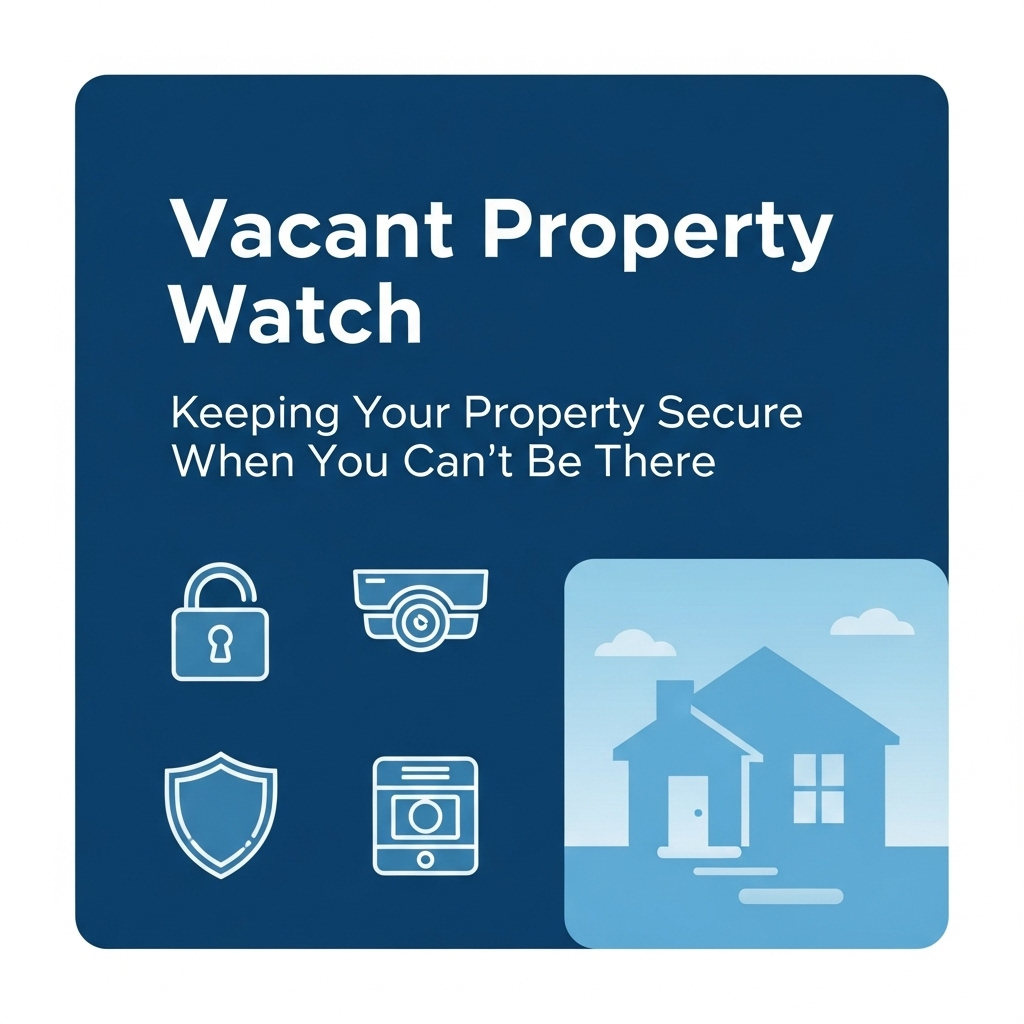
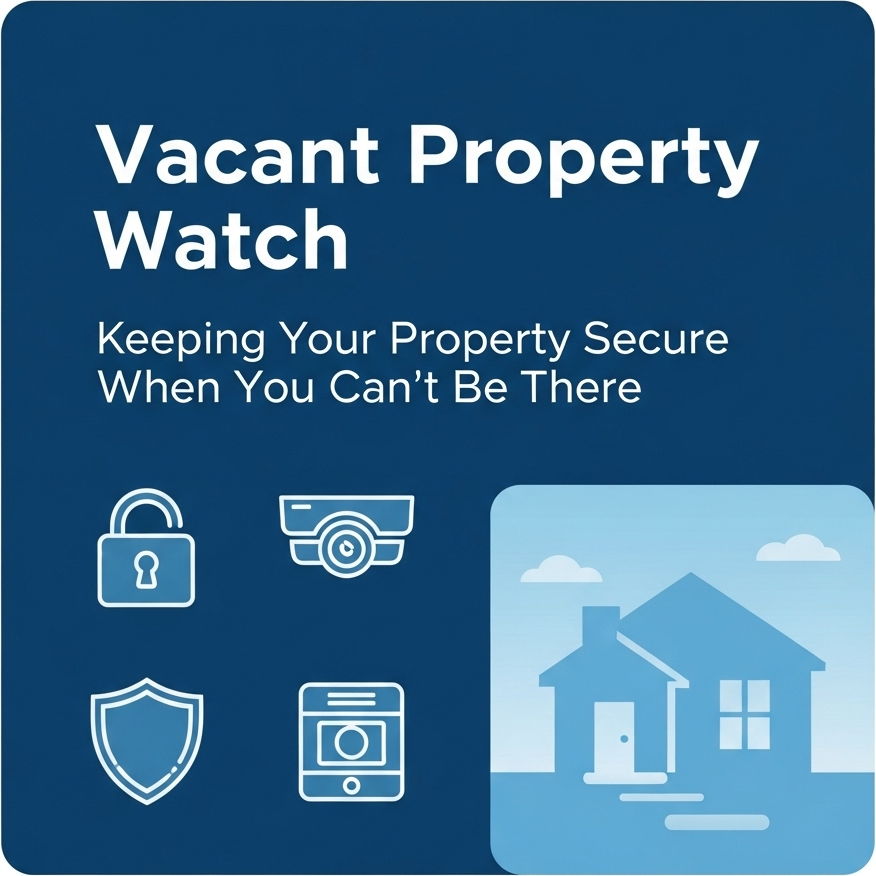
Hero carousel: full column width, square, no white frame
Carousel now matches the width of the headline block below it and shows
each square slide at full size. Removed the white slide background and
shadow, stacked the dots under the carousel, and trimmed the built-in
white margins from slides 1 and 3.

Claude-Session: https://claude.ai/code/session_015HqA3HpA2aQprywotxq25X

diff --git a/css/style.css b/css/style.css
@@ -274,12 +274,9 @@ a:hover {
 
 .hero-carousel {
     width: 100%;
-    max-width: 500px;
-    min-width: 280px;
-    margin: 0 auto;
     display: flex;
-    align-items: center;
-    justify-content: center;
+    flex-direction: column;
+    align-items: stretch;
 }
 
 .hero-title {
@@ -850,8 +847,8 @@ section {
 .carousel {
     position: relative;
     width: 100%;
-    height: 350px;
-    background: rgba(255,255,255,0.05);
+    aspect-ratio: 1 / 1;
+    background: transparent;
     border-radius: var(--radius-lg);
     overflow: hidden;
     display: flex;
@@ -873,13 +870,10 @@ section {
     top: 0; left: 0; right: 0; bottom: 0;
     width: 100%;
     height: 100%;
-    object-fit: contain;
+    object-fit: cover;
     opacity: 0;
     transition: opacity 0.5s;
     z-index: 1;
-    background: #fff;
-    border-radius: var(--radius-lg);
-    box-shadow: var(--shadow-light);
 }
 
 .carousel-slide.active {
@@ -946,17 +940,8 @@ section {
         gap: var(--spacing-lg);
     }
     .hero-carousel {
-        max-width: 100%;
-        margin-bottom: var(--spacing-lg);
-    }
-    .carousel {
-        height: 220px;
-    }
-}
-
-@media (max-width: 600px) {
-    .carousel {
-        height: 140px;
+        max-width: 560px;
+        margin: 0 auto;
     }
 }
 
